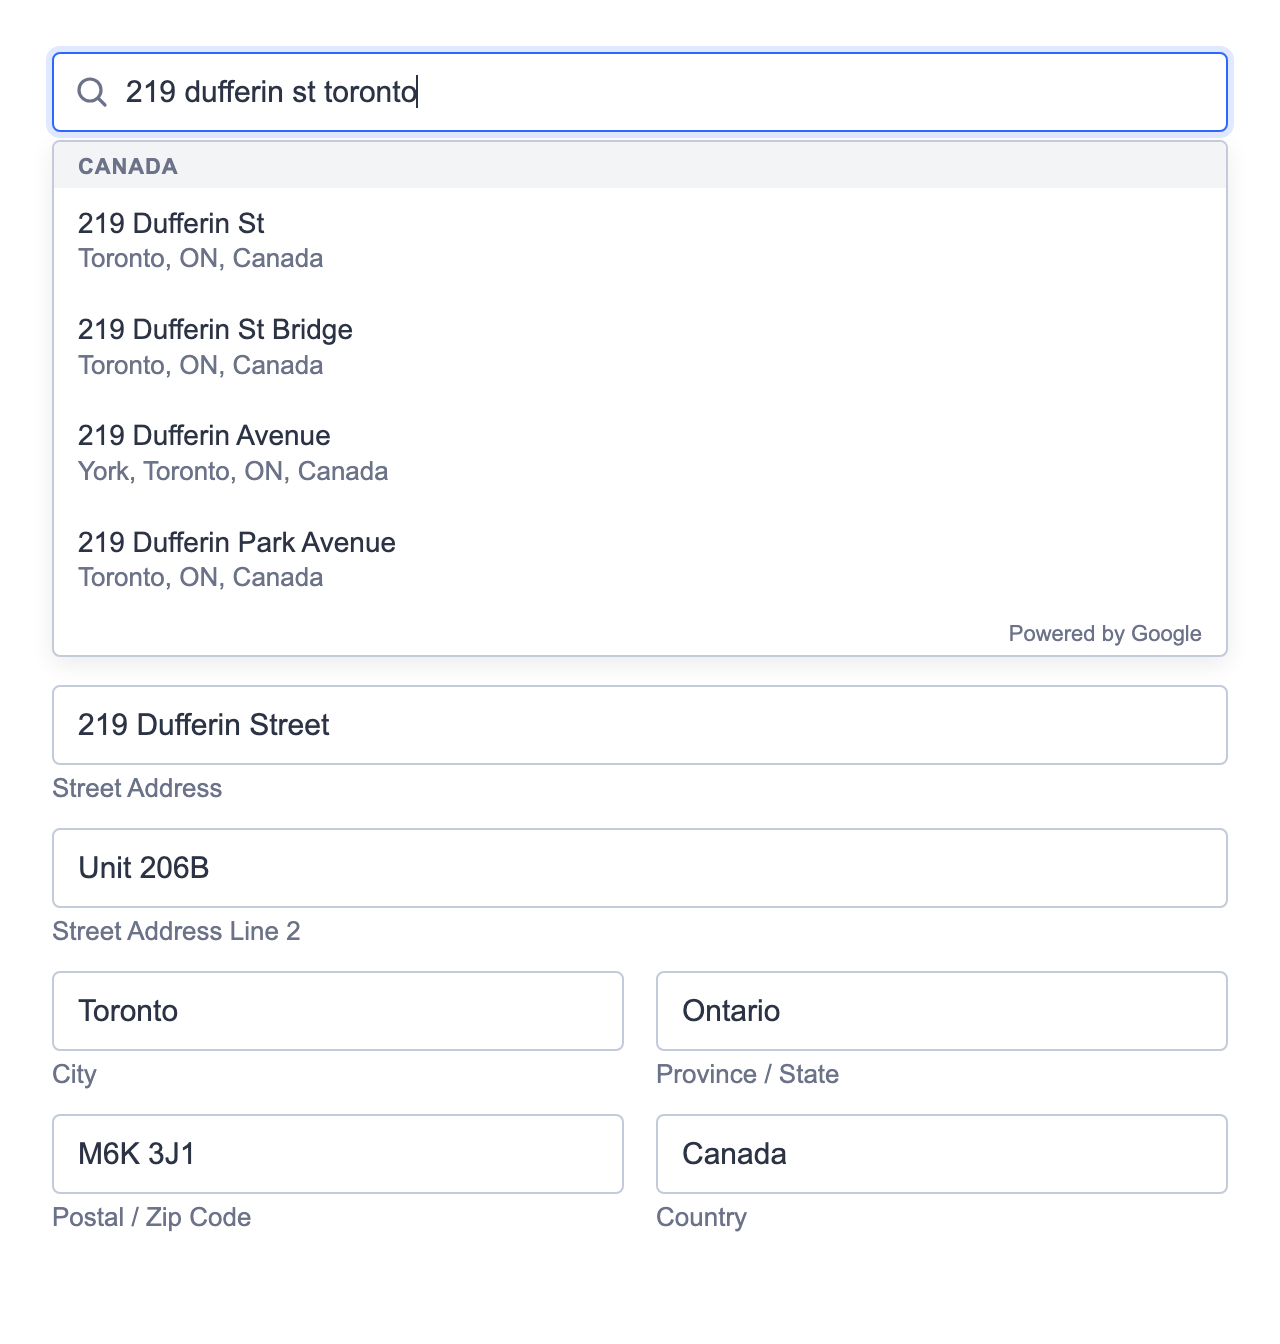
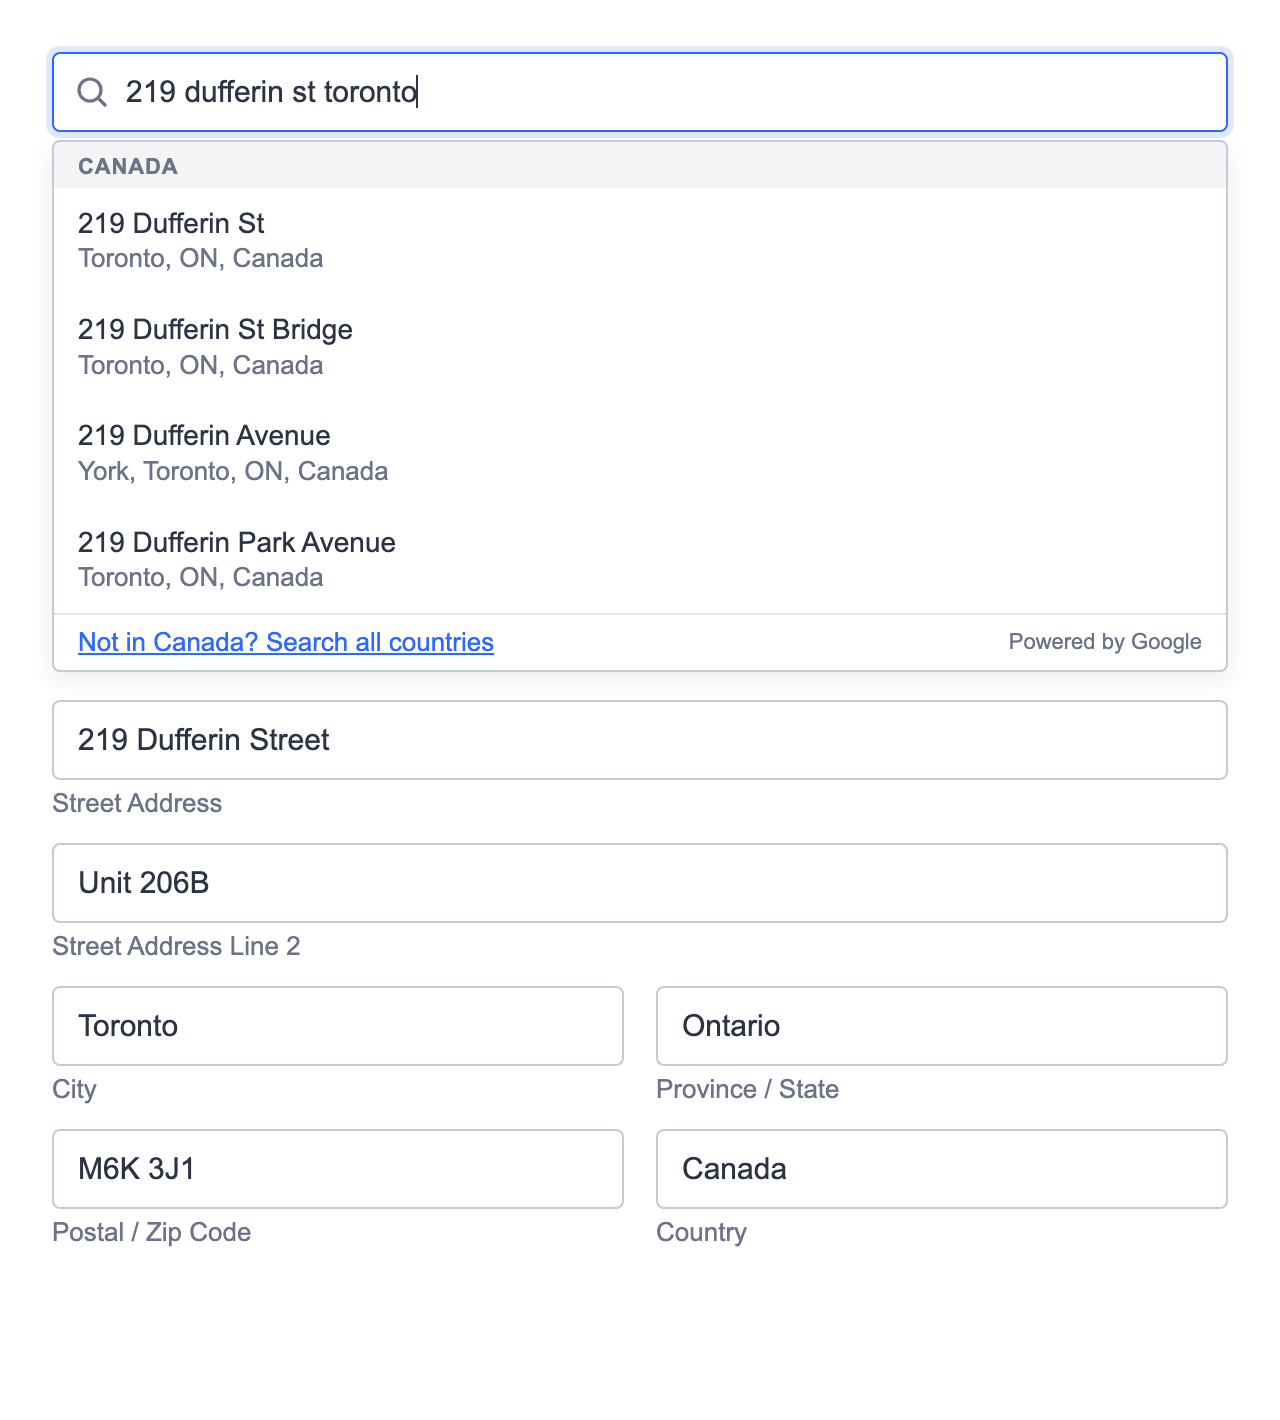
Search one country by default, with a switch to all countries
- Each search now makes one Google request instead of two, which doubles
  how far the daily quota goes
- New searchCountry widget parameter (two-letter code); blank uses the
  Worker's PRIMARY_COUNTRY
- The suggestion list has a "Not in <country>? Search all countries" link
  that re-runs the search worldwide and keeps that choice for the visit,
  with a link back
- Show "No matches in <country>." with the same link when nothing is found
- Reject unknown country codes on the server

Changed region(s): [[0.0312, 0.0312, 0.9688, 0.9375], [0.5, 0.6875, 0.6562, 0.9062], [0.9375, 0.5938, 0.9688, 0.625]]

diff --git a/public/index.html b/public/index.html
@@ -43,7 +43,10 @@
   .item .sub { color: var(--muted); font-size: calc(var(--font-size) - 2px); }
   .item.active, .item:hover { background: var(--hover); }
   .note { margin-top: 6px; font-size: 12px; color: var(--muted); }
-  .powered { padding: 4px 12px; text-align: right; font-size: 11px; color: var(--muted); }
+  .empty { padding: 9px 12px; font-size: calc(var(--font-size) - 2px); color: var(--muted); }
+  .footer { display: flex; align-items: center; justify-content: space-between; gap: 12px; padding: 6px 12px; border-top: 1px solid color-mix(in srgb, var(--border) 50%, transparent); }
+  .switch { padding: 0; border: 0; background: none; font: inherit; font-size: 13px; color: var(--focus); text-decoration: underline; cursor: pointer; text-align: left; }
+  .powered { margin-left: auto; font-size: 11px; color: var(--muted); white-space: nowrap; }
   .manual { margin-top: 6px; font-size: 13px; }
   .manual[hidden] { display: none; }
   .manual button { padding: 0; border: 0; background: none; font: inherit; color: var(--focus); text-decoration: underline; cursor: pointer; }
@@ -101,6 +104,8 @@ var SIZE_PARAMS = { fontSize: true, fieldHeight: true, cornerRadius: true };
 var PARAM_CHECK = { fontFamily: "font-family", fontSize: "width", fieldHeight: "width", cornerRadius: "width" };
 // Text parameters: searchPlaceholder, manualLinkText, labelStreet, labelLine2,
 // labelCity, labelProvince, labelPostal, labelCountry. Plus customCSS.
+// searchCountry: two-letter country code searched by default (e.g. ca, us, gb);
+// blank uses the server's PRIMARY_COUNTRY. People can switch to all countries.
 
 var input     = document.getElementById("addr");
 var list      = document.getElementById("list");
@@ -130,6 +135,8 @@ var LIMIT_MESSAGE = "Address search has reached its limit for now. Please enter 
 
 var sessionToken = newSessionToken();
 var customPlaceholder = false;   // set when the searchPlaceholder parameter is used
+var searchCountry = "";          // from the searchCountry parameter; "" = server default
+var searchScope = "country";     // "country" (default) or "world" after the person asks for it
 var currentItems = [];
 var activeIndex = -1;
 var requestSeq = 0;
@@ -212,6 +219,8 @@ function applySettings(settings) {
     document.querySelector('label[for="' + f.id + '"]').textContent = label;
   });
   document.getElementById("custom-css").textContent = get("customCSS");
+  var country = get("searchCountry").toLowerCase();
+  if (/^[a-z]{2}$/.test(country)) searchCountry = country;
 }
 
 // Refill the fields from a saved value (e.g. editing a submission)
@@ -281,12 +290,13 @@ function handleLookupError(err) {
   showFields(true);
 }
 
-function render(groups) {
+// res: { countryName, scope, groups: [{ label, items }] } from /api/suggest
+function render(res) {
   list.innerHTML = "";
   currentItems = [];
   activeIndex = -1;
 
-  groups.forEach(function (group) {
+  res.groups.forEach(function (group) {
     if (!group.items.length) return;
     var g = document.createElement("div");
     g.className = "group"; g.textContent = group.label;
@@ -304,14 +314,30 @@ function render(groups) {
     });
   });
 
-  if (currentItems.length) {
-    var pw = document.createElement("div");
-    pw.className = "powered"; pw.textContent = "Powered by Google";
-    list.appendChild(pw);
-    openList(true);
-  } else {
-    openList(false);
+  var inCountry = res.scope !== "world";
+  if (!currentItems.length) {
+    var empty = document.createElement("div");
+    empty.className = "empty";
+    empty.textContent = inCountry ? "No matches in " + res.countryName + "." : "No matches found.";
+    list.appendChild(empty);
   }
+
+  // Footer: switch between the default country and all countries, plus Google's note
+  var footer = document.createElement("div");
+  footer.className = "footer";
+  var sw = document.createElement("button");
+  sw.type = "button"; sw.className = "switch";
+  sw.textContent = inCountry ? "Not in " + res.countryName + "? Search all countries" : "Search " + res.countryName + " only";
+  sw.addEventListener("mousedown", function (e) { e.preventDefault(); });   // keep focus in the search bar
+  sw.addEventListener("click", function () { setScope(inCountry ? "world" : "country"); });
+  footer.appendChild(sw);
+  if (currentItems.length) {
+    var pw = document.createElement("span");
+    pw.className = "powered"; pw.textContent = "Powered by Google";
+    footer.appendChild(pw);
+  }
+  list.appendChild(footer);
+  openList(true);
 }
 
 function openList(open) {
@@ -369,22 +395,35 @@ function fillFields(p) {
 }
 
 /* ---------- Input events ---------- */
+function search(text) {
+  var mySeq = ++requestSeq;
+  var params = { q: text, scope: searchScope };
+  if (searchCountry) params.country = searchCountry;
+  api("suggest", params).then(function (res) {
+    if (mySeq !== requestSeq) return;   // ignore stale responses
+    note.hidden = true;                 // search works (again)
+    render(res);
+  }).catch(function (err) {
+    if (mySeq === requestSeq) openList(false);
+    handleLookupError(err);
+  });
+}
+
+// Switching keeps the person's choice for the rest of the visit and re-runs the search
+function setScope(scope) {
+  searchScope = scope;
+  clearTimeout(debounceTimer);
+  var text = input.value.trim();
+  if (text.length >= 3) search(text);
+  input.focus();
+}
+
 input.addEventListener("input", function () {
   cleanInput(input);
   clearTimeout(debounceTimer);
   var text = input.value.trim();
   if (text.length < 3) { openList(false); return; }
-  debounceTimer = setTimeout(function () {
-    var mySeq = ++requestSeq;
-    api("suggest", { q: text }).then(function (res) {
-      if (mySeq !== requestSeq) return;   // ignore stale responses
-      note.hidden = true;                 // search works (again)
-      render(res.groups);
-    }).catch(function (err) {
-      if (mySeq === requestSeq) openList(false);
-      handleLookupError(err);
-    });
-  }, DEBOUNCE_MS);
+  debounceTimer = setTimeout(function () { search(text); }, DEBOUNCE_MS);
 });
 
 input.addEventListener("keydown", function (e) {

diff --git a/src/index.ts b/src/index.ts
@@ -3,7 +3,9 @@
 // the browser.
 //
 //   GET /                         the widget page, only inside a Jotform iframe
-//   GET /api/suggest?q=&session=  address suggestions, home country first
+//   GET /api/suggest?q=&session=&country=&scope=
+//                                 address suggestions: in one country (default)
+//                                 or, with scope=world, anywhere. One Google call.
 //   GET /api/place?id=&session=   address parts for a picked suggestion
 //   GET /api/status               {"search":"ok"|"limited"} (Google quota used up)
 import { env } from "cloudflare:workers";
@@ -12,8 +14,6 @@ import { env } from "cloudflare:workers";
 const ALLOWED_HOSTS = ["jotform.com"];
 const FRAME_ANCESTORS = ALLOWED_HOSTS.flatMap((h) => [`https://${h}`, `https://*.${h}`]).join(" ");
 
-const MAX_PRIMARY = 5; // max suggestions from the home country
-const MAX_TOTAL = 8; // max suggestions overall
 const PLACE_TYPES = ["street_address", "premise", "subpremise", "route"];
 const PLACES_API = "https://places.googleapis.com/v1";
 const GOOGLE_TIMEOUT_MS = 5000;
@@ -25,6 +25,7 @@ const SUGGEST_FIELDS = [
 
 const SESSION_RE = /^[0-9a-f-]{36}$/i;
 const PLACE_ID_RE = /^[A-Za-z0-9_-]{1,512}$/;
+const COUNTRY_RE = /^[a-z]{2}$/;
 // Characters an address search may contain: letters in any language (with
 // accents), digits, spaces and . , ' ’ # / & ( ) -. Same list as the widget.
 const QUERY_RE = /^[\p{L}\p{M}\p{N} .,'’#/&()-]{3,200}$/u;
@@ -170,56 +171,32 @@ function toSuggestion(p: Prediction): Suggestion {
 	};
 }
 
-// The home country's display name ("Canada") and a matcher for suggestions
-// whose secondary text ends with it. Computed once per Worker instance.
-let region: { code: string; name: string; matcher: RegExp } | undefined;
-function homeRegion() {
-	if (!region) {
-		const code = (env.PRIMARY_COUNTRY || "ca").toLowerCase();
-		const name = new Intl.DisplayNames(["en"], { type: "region" }).of(code.toUpperCase()) ?? code;
-		const escaped = name.replace(/[.*+?^${}()|[\]\\]/g, "\\$&");
-		region = { code, name, matcher: new RegExp(`(^|,\\s*)${escaped}$`, "i") };
+// English name for a country code ("ca" -> "Canada"), or undefined if the
+// code isn't a real region. Cached per Worker instance.
+const countryNames = new Map<string, string | undefined>();
+function countryName(code: string): string | undefined {
+	if (!countryNames.has(code)) {
+		let name: string | undefined;
+		try {
+			name = new Intl.DisplayNames(["en"], { type: "region", fallback: "none" }).of(code.toUpperCase());
+		} catch {
+			name = undefined;
+		}
+		countryNames.set(code, name && name !== "Unknown Region" ? name : undefined);
 	}
-	return region;
+	return countryNames.get(code);
 }
 
-// Home-country results first, then worldwide, without duplicates.
-async function suggest(input: string, session: string) {
-	const { code, name, matcher } = homeRegion();
-	const results = await Promise.allSettled([autocomplete(input, session, code), autocomplete(input, session)]);
-	const failures = results.flatMap((r) => (r.status === "rejected" ? [r.reason] : []));
-	if (failures.some((e) => e instanceof LookupError && e.message === "quota_exceeded")) {
-		throw new LookupError("quota_exceeded");
-	}
-	if (failures.length === results.length) throw new LookupError("lookup_failed");
-	const [home, world] = results.map((r) => (r.status === "fulfilled" ? r.value : []));
-
-	const seen = new Set<string>();
-	const primary: Suggestion[] = [];
-	const other: Suggestion[] = [];
-	for (const p of home) {
-		if (!p.placeId || seen.has(p.placeId) || primary.length >= MAX_PRIMARY) continue;
-		seen.add(p.placeId);
-		primary.push(toSuggestion(p));
-	}
-	for (const p of world) {
-		if (!p.placeId || seen.has(p.placeId)) continue;
-		const s = toSuggestion(p);
-		// Home-country results from the worldwide query belong in the first group
-		if (matcher.test(s.secondary) && primary.length < MAX_PRIMARY) {
-			seen.add(p.placeId);
-			primary.push(s);
-			continue;
-		}
-		if (primary.length + other.length >= MAX_TOTAL) continue;
-		seen.add(p.placeId);
-		other.push(s);
-	}
+// One Google call: addresses in `country`, or anywhere when scope is "world".
+async function suggest(input: string, session: string, country: string, scope: "country" | "world") {
+	const name = countryName(country) ?? country.toUpperCase();
+	const predictions = await autocomplete(input, session, scope === "country" ? country : undefined);
+	const items = predictions.filter((p) => p.placeId).map(toSuggestion);
 	return {
-		groups: [
-			{ label: name, items: primary },
-			{ label: "Other countries", items: other },
-		],
+		country,
+		countryName: name,
+		scope,
+		groups: [{ label: scope === "country" ? name : "All countries", items }],
 	};
 }
 
@@ -266,8 +243,12 @@ async function serveApi(request: Request, url: URL): Promise<Response> {
 	try {
 		if (url.pathname === "/api/suggest") {
 			const q = (url.searchParams.get("q") ?? "").trim();
-			if (!QUERY_RE.test(q)) return json({ error: "bad_request" }, 400);
-			return json(await suggest(q, session));
+			const country = (url.searchParams.get("country") || env.PRIMARY_COUNTRY || "ca").toLowerCase();
+			const scope = url.searchParams.get("scope") === "world" ? "world" : "country";
+			if (!QUERY_RE.test(q) || !COUNTRY_RE.test(country) || !countryName(country)) {
+				return json({ error: "bad_request" }, 400);
+			}
+			return json(await suggest(q, session, country, scope));
 		}
 		if (url.pathname === "/api/place") {
 			const id = url.searchParams.get("id") ?? "";

diff --git a/README.md b/README.md
@@ -2,11 +2,11 @@
 
 A Jotform custom widget that finds addresses as you type (Google Places) and then splits the chosen address into standard fields: Street Address, Line 2, City, Province / State, Postal / Zip Code, and Country. It runs on Cloudflare Workers, which also calls Google on the widget's behalf, so **your Google API key never reaches the browser**.
 
-<img src="docs/screenshot.png" alt="Address search with suggestions grouped by country, above the filled-in address fields" width="560">
+<img src="docs/screenshot.png" alt="Address search showing Canadian suggestions and a Not in Canada? Search all countries link, above the filled-in address fields" width="560">
 
 ## Features
 
-- One search bar with suggestions from your home country first, then other countries.
+- One search bar that searches one country by default (set per form). A "Not in Canada? Search all countries" link switches that visitor to worldwide suggestions, and back. Each search makes a single Google request.
 - Picking a suggestion fills editable fields laid out like Jotform's built-in Address field. A "Can't find it? Enter address manually" link covers addresses Google doesn't know.
 - Colours, font, sizes and labels are set from Jotform widget parameters, with no code changes. A `customCSS` parameter covers anything else.
 - The Google key is stored as a Cloudflare secret. The widget page and its lookup API only respond inside a Jotform iframe.
@@ -53,7 +53,7 @@ In `cloudflare.config.ts`:
 
 - `name`: any Worker name.
 - `domains`: the address Jotform will load the widget from, on a domain in your Cloudflare account.
-- `PRIMARY_COUNTRY`: two-letter country code listed first in suggestions (default `ca`).
+- `PRIMARY_COUNTRY`: two-letter country code searched by default (default `ca`). Each form can override it with the `searchCountry` widget parameter.
 - `API_RATE_LIMIT`: address lookups allowed per visitor per minute (default 30). A person filling in the form uses about 2–10.
 
 In `src/index.ts`, `ALLOWED_HOSTS` lists the sites allowed to embed the widget. The default `jotform.com` covers `form.jotform.com`, `eu.jotform.com` and the form builder. Add your own domain if your forms use a Jotform custom domain.
@@ -101,6 +101,7 @@ All parameters are optional. Leave one out or blank to keep the default. Sizes t
 | `searchPlaceholder` | Search bar hint | Search for your address |
 | `manualLinkText` | Manual-entry link | Can't find it? Enter address manually |
 | `labelStreet`, `labelLine2`, `labelCity`, `labelProvince`, `labelPostal`, `labelCountry` | Field labels. These also name the lines in the submitted value. | Street Address, … |
+| `searchCountry` | Country searched by default, as a two-letter code (`ca`, `us`, `gb`, …). Visitors can still switch to all countries. | the Worker's `PRIMARY_COUNTRY` (`ca`) |
 | `customCSS` | Extra CSS added to the widget, e.g. `.field label { font-weight: 600 }`. Jotform's widget library applies a setting with this name too, so the widget's Custom CSS tab may work the same way. | empty |
 
 The widget can't read your form's theme automatically (browsers keep an iframe from another site apart from the page around it), so set the colours to match your form's Form Designer.
